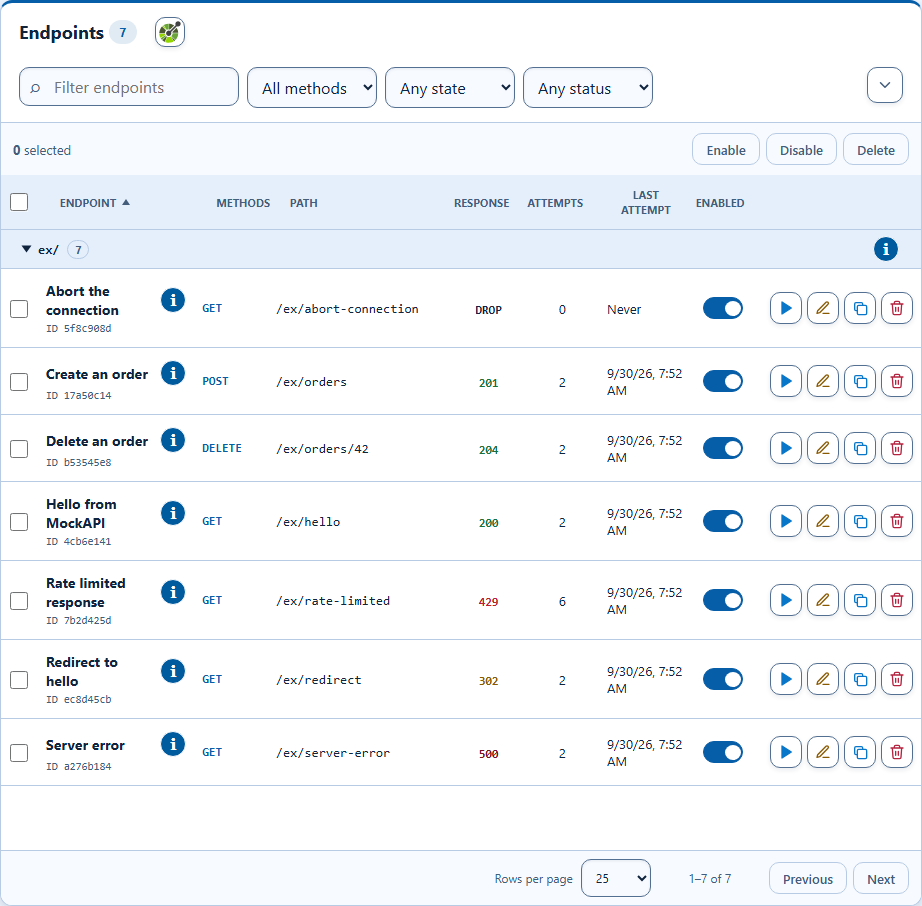
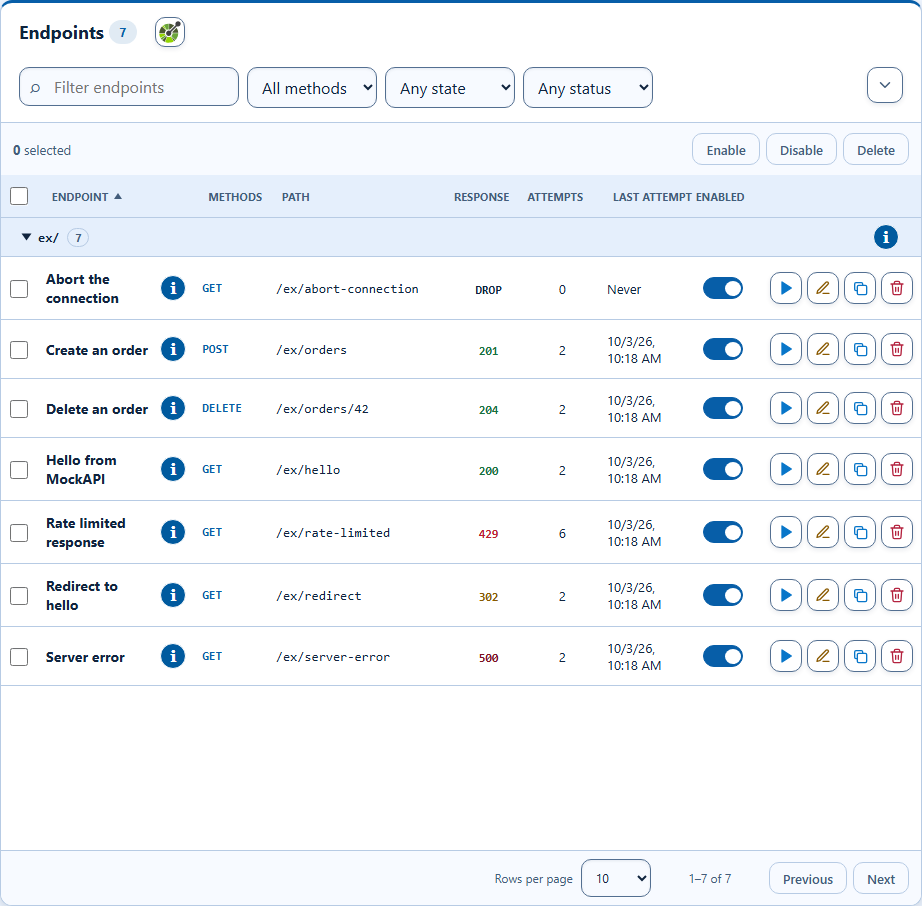
Update screenshots and carousel controls

diff --git a/site/site.css b/site/site.css
@@ -254,48 +254,72 @@ figcaption {
   align-items: center;
   justify-content: center;
   flex-wrap: wrap;
-  gap: 0.75rem;
 }
 .gallery-controls {
-  margin-top: 1rem;
+  width: fit-content;
+  max-width: 100%;
+  margin: 1rem auto 0;
+  padding: 0.45rem;
+  gap: 0.35rem;
+  border: 1px solid var(--border);
+  border-radius: 1rem;
+  background: var(--surface);
+  box-shadow: 0 8px 24px #17305212;
+}
+.gallery-choices {
+  gap: 0.15rem;
+  padding: 0.2rem;
+  border-radius: 0.75rem;
+  background: var(--wash);
 }
 .gallery-controls .button {
-  min-height: 44px;
+  min-height: 34px;
+  padding: 0.35rem 0.75rem;
+  border-color: transparent;
+  background: transparent;
+  box-shadow: none;
   cursor: pointer;
   font: inherit;
-  font-size: 0.9rem;
+  font-size: 0.85rem;
   color: var(--cp-text);
 }
+.gallery-controls .button:hover {
+  background: var(--surface);
+  box-shadow: none;
+  transform: none;
+}
 .gallery-arrow {
-  flex: 0 0 44px;
-  width: 44px;
-  min-height: 44px;
+  flex: 0 0 36px;
+  width: 36px;
+  min-height: 36px;
+  border-radius: 50%;
   color: var(--cp-link);
+  box-shadow: none;
 }
 .gallery-arrow:hover {
-  background: var(--cp-surface-soft);
+  background: var(--wash);
+  box-shadow: none;
 }
 .gallery-arrow svg {
-  width: 20px;
-  height: 20px;
+  width: 16px;
+  height: 16px;
 }
 .gallery-choices [aria-pressed="true"] {
-  border-color: var(--cp-accent);
   background: var(--cp-accent);
   color: var(--cp-accent-fg);
   font-weight: 700;
-  text-decoration: underline;
-  text-underline-offset: 0.2em;
 }
 .gallery-choices [aria-pressed="true"]:hover {
   background: var(--cp-accent-hover);
 }
 .gallery-status {
   flex-basis: 100%;
-  margin: 0;
+  margin: 0.2rem 0.35rem 0.1rem;
+  padding-top: 0.45rem;
+  border-top: 1px solid var(--border);
   text-align: center;
   color: var(--muted);
-  font-size: 0.9rem;
+  font-size: 0.8rem;
 }
 .footer-details {
   display: grid;
@@ -436,6 +460,9 @@ footer {
     border-color: Highlight;
     background: Highlight;
     color: HighlightText;
+  }
+  .gallery-controls {
+    box-shadow: none;
   }
 }
 

diff --git a/tests/site/accessibility.spec.js b/tests/site/accessibility.spec.js
@@ -59,8 +59,9 @@ test("uniform header, styled links and arrow controls meet contrast and keyboard
       if (control !== inlineLink) {
         expect(contrastRatio(colors.border, colors.background)).toBeGreaterThanOrEqual(3);
         const size = await control.boundingBox();
-        expect(size.width).toBeGreaterThanOrEqual(control === theme ? 24 : 44);
-        expect(size.height).toBeGreaterThanOrEqual(control === theme ? 24 : 44);
+        const minimumSize = control === previous || control === next ? 36 : control === theme ? 24 : 44;
+        expect(size.width).toBeGreaterThanOrEqual(minimumSize);
+        expect(size.height).toBeGreaterThanOrEqual(minimumSize);
       }
       await page.keyboard.press("Tab");
       await control.focus();
@@ -103,7 +104,7 @@ test("uniform header, styled links and arrow controls meet contrast and keyboard
     }
     await expect(inlineLink).toHaveCSS("text-decoration-line", "underline");
     const selected = page.locator('.gallery-choices [aria-pressed="true"]');
-    await expect(selected).toHaveCSS("text-decoration-line", "underline");
+    await expect(selected).toHaveCSS("font-weight", "700");
     const results = await new AxeBuilder({ page }).withTags(["wcag2a", "wcag2aa", "wcag21aa", "wcag22aa"]).analyze();
     expect(results.violations).toEqual([]);
   }
@@ -136,7 +137,7 @@ test("text resizing, reflow, reduced motion and forced colors retain usable cont
   await choices.getByRole("button", { name: "Overview", exact: true }).click();
   const selected = choices.getByRole("button", { name: "Overview", exact: true });
   await expect(selected).toHaveAttribute("aria-pressed", "true");
-  await expect(selected).toHaveCSS("text-decoration-line", "underline");
+  await expect(selected).toHaveCSS("font-weight", "700");
   await next.focus();
   await page.keyboard.press("Enter");
   await expect(page.locator("#gallery-status")).toHaveText("Screenshot 2 of 3: Example endpoints");

diff --git a/site/index.html b/site/index.html
@@ -255,13 +255,13 @@
               <img
                 src="./dashboard-request-log.png"
                 width="1444"
-                height="875"
-                alt="Expanded request log with 16 recorded outcomes, including HTTP 200, 201, 204, 302, 429, and 500 responses."
+                height="480"
+                alt="Request log with a 16-request sample and recent HTTP 200, 201, and 302 outcomes."
               />
             </a>
             <figcaption>
-              <strong>Request log.</strong> All 16 recorded requests, with local and UTC timestamps, methods, paths,
-              HTTP outcomes, transport attempts, and response byte counts.
+              <strong>Request log.</strong> Recent entries from a 16-request sample, with local and UTC timestamps,
+              methods, paths, HTTP outcomes, transport attempts, and response byte counts.
             </figcaption>
           </figure>
         </div>

diff --git a/tests/site/landing.spec.js b/tests/site/landing.spec.js
@@ -439,7 +439,7 @@ test("dashboard gallery supports named views, wrapping controls, keyboard naviga
   ).toEqual([
     [1920, 1200],
     [922, 906],
-    [1444, 875],
+    [1444, 480],
   ]);
 });
 
